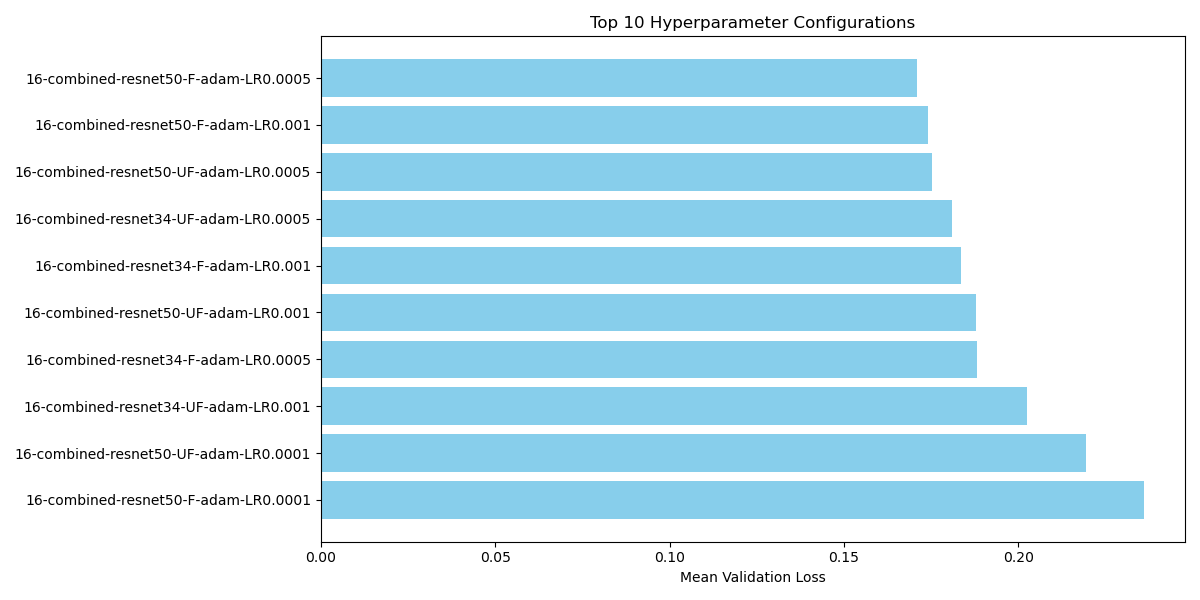
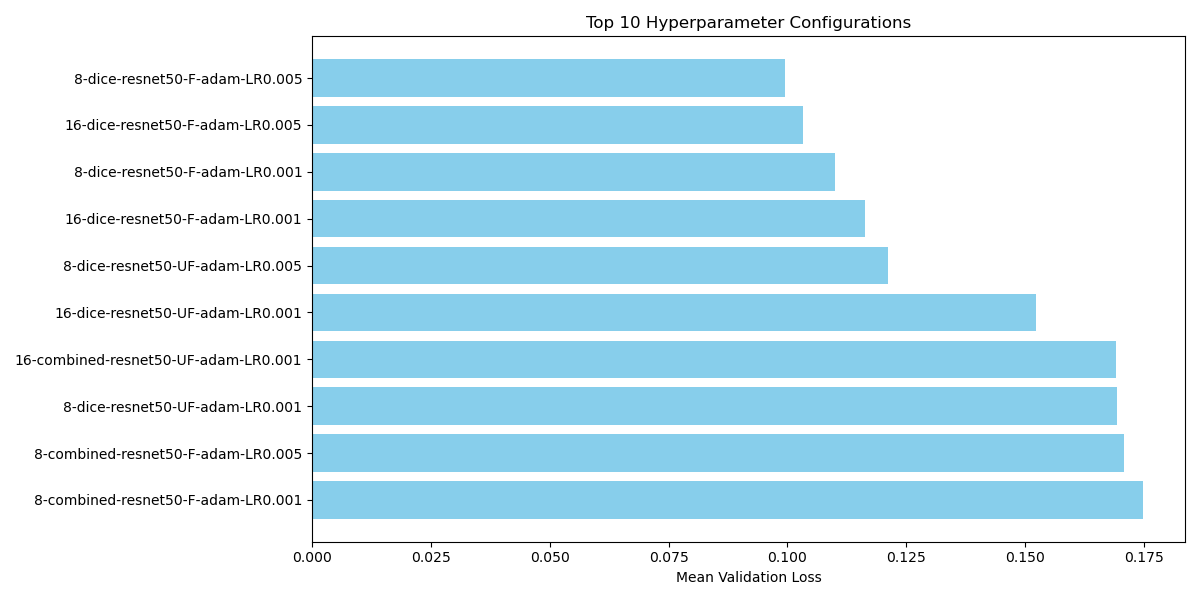
results from two fold cv

diff --git a/training/train_test_alfred.py b/training/train_test_alfred.py
@@ -87,22 +87,22 @@ def run_cross_validation(num_epochs=100, batch_size=16, patience=10, n_splits=5,
             encoder_weights="imagenet", 
             in_channels=3, 
             classes=1, 
-            freeze_encoder=True
+            freeze_encoder=False
         )
         model.to(device)
 
                 # Freeze selected encoder layers (conv1, bn1, layer1)
-        #for name, param in model.encoder.named_parameters():
-            #if name.startswith("conv1") or name.startswith("bn1") or name.startswith("layer1") or name.startswith("layer2"):
-                #param.requires_grad = False
-            #else:
-                #param.requires_grad = True
+        for name, param in model.encoder.named_parameters():
+            if name.startswith("conv1") or name.startswith("bn1") or name.startswith("layer1") or name.startswith("layer2"):
+                param.requires_grad = False
+            else:
+                param.requires_grad = True
 
         # Check if encoder parameters are frozen or not
         frozen_params = [name for name, param in model.encoder.named_parameters() if not param.requires_grad]
         print(f"Fold {fold+1}: Frozen encoder parameters count: {len(frozen_params)} / {len(list(model.encoder.parameters()))}")
         print(f"Using pretrained weights: {any('encoder' in key and '0.weight' in key for key in model.state_dict().keys())}")
-        optimizer = optim.Adam(model.parameters(), lr=1e-4)
+        optimizer = optim.Adam(model.parameters(), lr=0.001)
         
         best_val_loss = float('inf')
         patience_counter = 0
@@ -125,7 +125,7 @@ def run_cross_validation(num_epochs=100, batch_size=16, patience=10, n_splits=5,
                 if len(labeled_batch_idx) > 0:
                     labeled_outputs = outputs[labeled_batch_idx]
                     labeled_masks = masks[labeled_batch_idx]
-                    loss = combined_loss(labeled_outputs, labeled_masks)
+                    loss = dice_loss(labeled_outputs, labeled_masks)#combined_loss(labeled_outputs, labeled_masks)
                     
                     optimizer.zero_grad()
                     loss.backward()
@@ -228,4 +228,4 @@ def run_cross_validation(num_epochs=100, batch_size=16, patience=10, n_splits=5,
 if __name__ == '__main__':
     current_time = datetime.now().strftime("%m-%d/%H-%M") # Month-Day Hour-Minute
     os.makedirs(current_time) # Create directories to avoid errors
-    run_cross_validation(num_epochs=100, batch_size=16, patience=5, n_splits=5, figure_prefix=current_time+"/")
+    run_cross_validation(num_epochs=100, batch_size=8, patience=10, n_splits=5, figure_prefix=current_time+"/")

diff --git a/training/two_fold_cv.py b/training/two_fold_cv.py
@@ -130,12 +130,12 @@ def train_and_evaluate(train_indices, val_indices, batch_size, encoder_name, fre
 
 def outer_cross_validation():
     global dataset_dir
-    batch_sizes = [8,16,32]
-    loss_types = ['combined']
+    batch_sizes = [8,16]
+    loss_types = ['dice','bce','combined']
     encoders = ['resnet50']
     freeze_opts = [True, False]
     optimizers = ['adam']
-    learning_rates = [5e-4, 1e-3]
+    learning_rates = [5e-4,1e-3, 5e-3]
     outer_n_splits = 3
 
     results = []
@@ -188,7 +188,7 @@ def outer_cross_validation():
 
     # Plot top 10 configurations
     top_results = sorted(results, key=lambda r: r["mean_val_loss"])[:10]
-    labels = [f'{r["batch_size"]}-{r["loss_type"]}-{r["encoder"]}-{"F" if r["freeze_encoder"] else "UF"}-{r["optimizer"]}-LR{r["lr"]}' for r in top_results]
+    labels = [f'{r["batch_size"]}-{r["loss_type"]}-{r["encoder"]}-{"T" if r["freeze_encoder"] else "F"}-{r["optimizer"]}-LR{r["lr"]}' for r in top_results]
     losses = [r["mean_val_loss"] for r in top_results]
 
     plt.figure(figsize=(12, 6))
